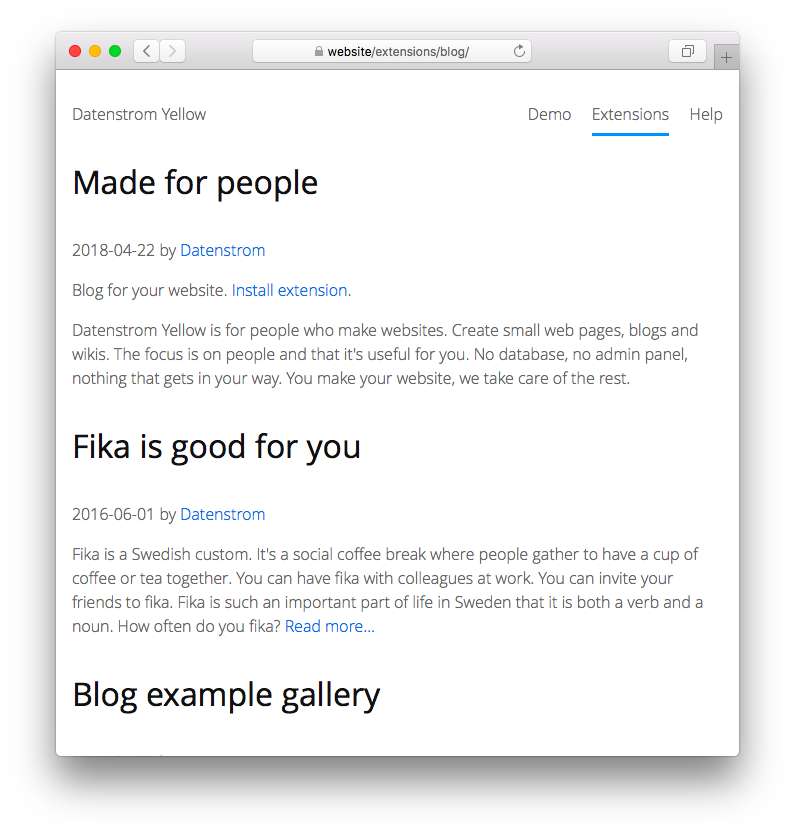
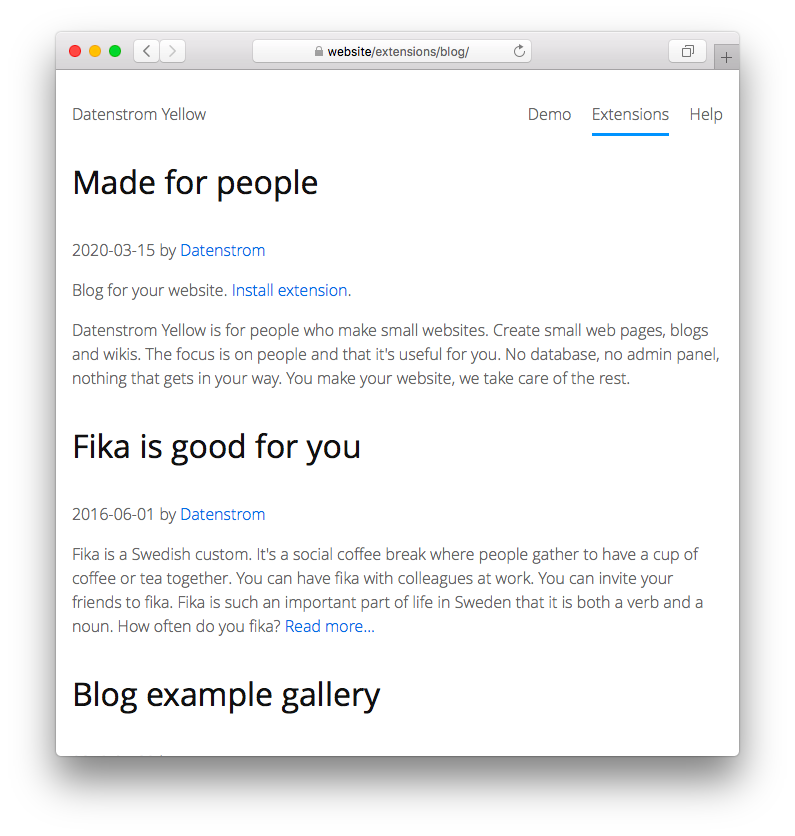
Updated documentation

Changed region(s): [[0.0906, 0.3732, 0.9057, 0.4354], [0.1208, 0.2799, 0.2113, 0.311]]

diff --git a/features/wiki/page.md b/features/wiki/page.md
@@ -4,6 +4,6 @@ Layout: wikipages
 LayoutNew: wiki
 Tag: Example
 ---
-Datenstrom Yellow is for people who make websites. Create small web pages, blogs and wikis. The focus is on people and that it's useful for you. No database, no admin panel, nothing that gets in your way. You make your website, we take care of the rest.
+Datenstrom Yellow is for people who make small websites. Create small web pages, blogs and wikis. The focus is on people and that it's useful for you. No database, no admin panel, nothing that gets in your way. You make your website, we take care of the rest.
 
 Lorem ipsum dolor sit amet, consectetur adipisicing elit, sed do eiusmod tempor incididunt ut labore et dolore magna pizza. Ut enim ad minim veniam, quis nostrud exercitation ullamco laboris nisi ut aliquip ex ea commodo consequat. Duis aute irure dolor in reprehenderit in voluptate velit esse cillum dolore eu fugiat nulla pariatur. Excepteur sint occaecat cupidatat non proident, sunt in culpa qui officia deserunt mollit anim id est laborum.

diff --git a/features/blog/2018-04-22-made-for-people.md b/features/blog/2018-04-22-made-for-people.md
@@ -5,4 +5,4 @@ Author: Datenstrom
 Layout: blog
 Tag: Example
 ---
-Datenstrom Yellow is for people who make websites. Create small web pages, blogs and wikis. The focus is on people and that it's useful for you. No database, no admin panel, nothing that gets in your way. You make your website, we take care of the rest.
+Datenstrom Yellow is for people who make small websites. Create small web pages, blogs and wikis. The focus is on people and that it's useful for you. No database, no admin panel, nothing that gets in your way. You make your website, we take care of the rest.
